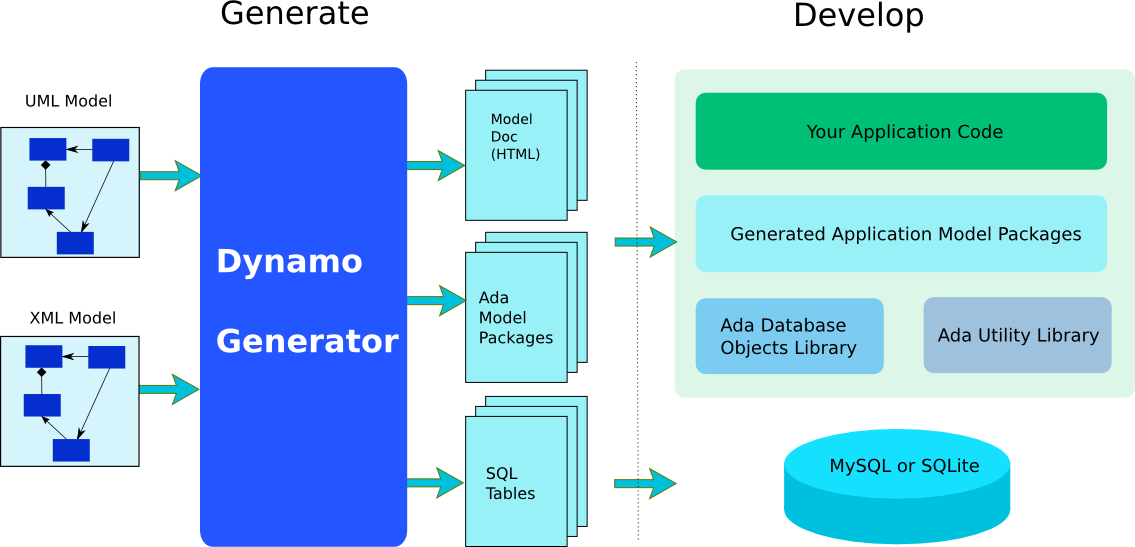
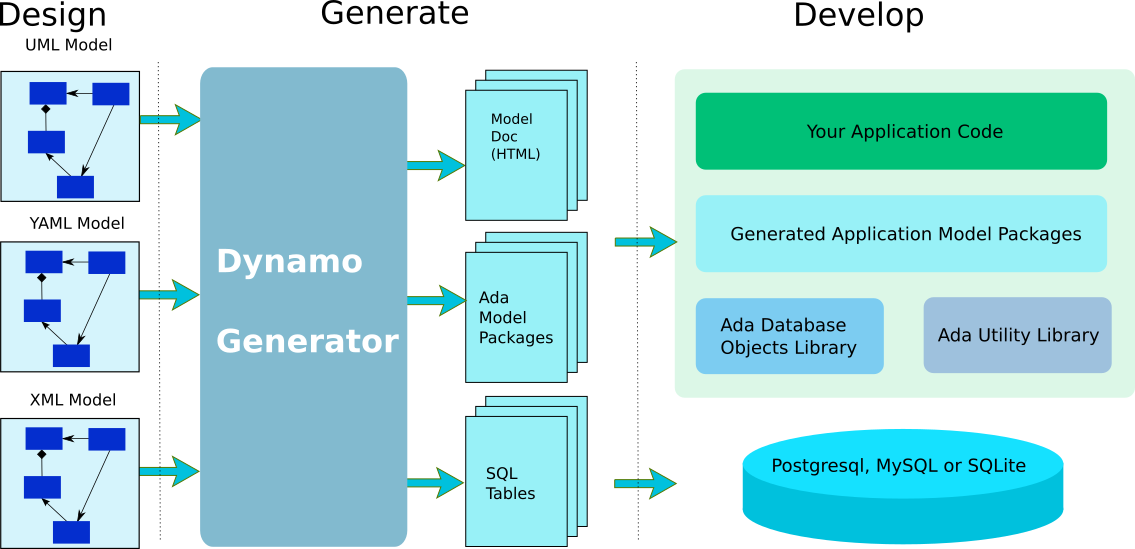
Update and clarify the installation, tutorial, fix the image, update the publication date

diff --git a/docs/Installation.md b/docs/Installation.md
@@ -7,10 +7,10 @@ This chapter explains how to build and install the library.
 Before building ADO, you will need:
 
 * [Ada Utility Library](https://github.com/stcarrez/ada-util)
-* [XML/Ada](http://libre.adacore.com/libre/tools/xmlada/)
+* [XML/Ada](https://libre.adacore.com/libre/tools/xmlada/)
 * Either the PostgreSQL, MySQL or SQLite development headers installed.
 
-First get, build and install the [XML/Ada](http://libre.adacore.com/libre/tools/xmlada/)
+First get, build and install the [XML/Ada](https://libre.adacore.com/libre/tools/xmlada/)
 and then get, build and install the [Ada Utility Library](https://github.com/stcarrez/ada-util).
 
 ## Database Driver Installation
@@ -42,18 +42,43 @@ sudo apt-get install postgresql-client libpq-dev
 ```
 
 ### Windows
-For Windows, the installation is a little bit more complex and manual.
-You may either download the files from MySQL and SQLite download sites
-or you may use the files provided by ADO in the `win32` directory.
 
-If your GNAT 2018 compiler is installed in `C:/GNAT/2018`, you may
-install the MySQL and SQLite libraries by using msys cp with:
+It is recommended to use msys2 available at https://www.msys2.org/
+and use the `pacman` command to install the required packages.
 
 ```
-cp win32/*.dll C:/GNAT/2018/bin
-cp win32/*.dll C:/GNAT/2018/lib
-cp win32/*.lib C:/GNAT/2018/lib
-cp win32/*.a C:/GNAT/2018/lib
+pacman -S git
+pacman -S make
+pacman -S unzip
+pacman -S base-devel --needed
+pacman -S mingw-w64-x86_64-sqlite3
+```
+
+For Windows, the installation is a little bit more complex and manual.
+You may either download the files from MySQL and SQLite download sites
+or you may use the files provided by Ada Database Objects
+in the `win32` directory.
+
+For Windows 32-bit, extract the files:
+
+```
+cd win32 && unzip sqlite-dll-win32-x86-3290000.zip
+```
+
+For Windows 64-bit, extract the files:
+
+```
+cd win32 && unzip sqlite-dll-win64-x64-3290000.zip
+```
+
+If your GNAT 2019 compiler is installed in `C:/GNAT/2019`, you may
+install the liblzma, MySQL and SQLite libraries by using msys cp with:
+
+```
+cp win32/*.dll C:/GNAT/2019/bin
+cp win32/*.dll C:/GNAT/2019/lib
+cp win32/*.lib C:/GNAT/2019/lib
+cp win32/*.a C:/GNAT/2019/lib
 ```
 
 ## Configuration
@@ -125,4 +150,18 @@ GNAT project file:
 
 ```
 with "ado";
+with "ado_all";
 ```
+
+It is possible to use only a specific database driver, in that case your GNAT
+project file could be defined as follows:
+
+```
+with "ado";
+with "ado_mysql";
+with "ado_sqlite";
+with "ado_postgresql";
+```
+
+where the `ado_mysql`, `ado_sqlite` and `ado_postgresql` are optional and
+included according to your needs.

diff --git a/docs/Tutorial.md b/docs/Tutorial.md
@@ -17,13 +17,13 @@ The tutorial application is a simple user management database which has only one
 
 The first step is to design the data model.  You have the choice with:
 
-   * Using an UML modeling tool,
-   * Writing an XML file following the [Hibernate](http://www.hibernate.org/) description,
+   * Using an UML modeling tool such as [ArgoUML](https://github.com/argouml-tigris-org/argouml),
+   * Writing an XML file following the [Hibernate](https://www.hibernate.org/) description,
    * Writing a YAML description according to the [Doctrine](https://www.doctrine-project.org/projects/doctrine-orm/en/2.6/reference/yaml-mapping.html) mapping.
 
 In all cases, the model describes the data table as well as how the different
 columns are mapped to an Ada type.  The model can also describe the relations between
-tables.
+tables.  XML and YAML data model files should be stored in the `db` directory.
 
 Let's define a mapping for a simple `user` table and save it in `db/user.hbm.xml`:
 ```
@@ -155,6 +155,12 @@ in each directory:
 * A second SQL file that contains `DROP` statements to erase the database tables.
   The file name uses the pattern `drop-`*name*-*driver*.
 
+When you modify the UML, XML or YAML model files, you should generate again
+the Ada and SQL files.  Even though these files can be generated, it is
+recommended to store these generated files in a versioning systems such
+as `git` because this helps significantly in tracking changes in the data model.
+
+
 ## Getting a Database Connection
 
 To access the database, we will need a database connection.
@@ -172,7 +178,7 @@ with ADO.Sessions.Factory;
 
 The factory can be initialized by giving a URI string that identifies the
 driver and the information to connect to the database.  Once created,
-the factory return session objects to connect to that database.  To connect
+the factory returns a session object to connect to that database.  To connect
 to another database, another factory is necessary.
 
 To get access to a MySQL database, the factory could be initialized as follows:

diff --git a/docs/ADO_Model.md b/docs/ADO_Model.md
@@ -228,7 +228,7 @@ management is handled automatically.  It defines generic operations to be able t
   * save the Ada object into the database either by inserting or updating it,
   * delete the database record.
 
-The [Dynamo](https://github.com/stcarrez/dynamo) code generator will generate a specific tagged type for each database table
+The Dynamo code generator will generate a specific tagged type for each database table
 that is mapped.  These tagged type will inherit from the `Object_Ref` and will implement
 the required abstract operations.  For each of them, the code generator will generate
 the `Get_X` and `Set_X` operation for each column mapped in Ada.
@@ -238,7 +238,7 @@ The `ADO.Objects.Object_Record` tagged record is used for that and it defines th
 root type for the model representation.  The type provides operations to modify a
 data field of the record while tracking its changes so that when the `Save` operation
 is called, only the data fields that have been modified are updated in the database.
-An application will not use nor access the `Object_Record`.  The [Dynamo](https://github.com/stcarrez/dynamo) code generator
+An application will not use nor access the `Object_Record`.  The Dynamo code generator
 generates a private type to make sure it is only accessed through the reference.
 
 Several predicate operations are available to help applications check the validity
@@ -287,7 +287,7 @@ not User.Is_Null and not User.Is_Loaded and User.Is_Inserted
 ```
 
 ## Loading Objects
-Three operations are generated by the [Dynamo](https://github.com/stcarrez/dynamo) code generator to help in loading
+Three operations are generated by the Dynamo code generator to help in loading
 a object from the database: two `Load` procedures and a `Find` procedure.
 The `Load` procedures are able to load an object by using its primary key.
 Two forms of `Load` are provided: one that raises the `ADO.Objects.NOT_FOUND`

diff --git a/docs/ADO_Objects.md b/docs/ADO_Objects.md
@@ -9,7 +9,7 @@ management is handled automatically.  It defines generic operations to be able t
   * save the Ada object into the database either by inserting or updating it,
   * delete the database record.
 
-The [Dynamo](https://github.com/stcarrez/dynamo) code generator will generate a specific tagged type for each database table
+The Dynamo code generator will generate a specific tagged type for each database table
 that is mapped.  These tagged type will inherit from the `Object_Ref` and will implement
 the required abstract operations.  For each of them, the code generator will generate
 the `Get_X` and `Set_X` operation for each column mapped in Ada.
@@ -19,7 +19,7 @@ The `ADO.Objects.Object_Record` tagged record is used for that and it defines th
 root type for the model representation.  The type provides operations to modify a
 data field of the record while tracking its changes so that when the `Save` operation
 is called, only the data fields that have been modified are updated in the database.
-An application will not use nor access the `Object_Record`.  The [Dynamo](https://github.com/stcarrez/dynamo) code generator
+An application will not use nor access the `Object_Record`.  The Dynamo code generator
 generates a private type to make sure it is only accessed through the reference.
 
 Several predicate operations are available to help applications check the validity
@@ -68,7 +68,7 @@ not User.Is_Null and not User.Is_Loaded and User.Is_Inserted
 ```
 
 ## Loading Objects
-Three operations are generated by the [Dynamo](https://github.com/stcarrez/dynamo) code generator to help in loading
+Three operations are generated by the Dynamo code generator to help in loading
 a object from the database: two `Load` procedures and a `Find` procedure.
 The `Load` procedures are able to load an object by using its primary key.
 Two forms of `Load` are provided: one that raises the `ADO.Objects.NOT_FOUND`

diff --git a/docs/ADO_Statements.md b/docs/ADO_Statements.md
@@ -166,7 +166,7 @@ the result mapped in the record.
 The same query mapping can be used by different queries.
 
 After writing or updating a query mapping, it is necessary to launch the
-[Dynamo](https://github.com/stcarrez/dynamo) code generator to generate the corresponding Ada model.
+Dynamo code generator to generate the corresponding Ada model.
 
 ### SQL Queries
 The XML query file defines a list of SQL queries that the application
@@ -203,10 +203,10 @@ The `sql` and `sql-count` XML element can have an optional `driver` attribute.
 When defined, the attribute indicates the database driver name that is specific
 to the query.  When empty or not defined, the SQL is not specific to a database driver.
 
-For each query, the [Dynamo](https://github.com/stcarrez/dynamo) code generator generates a query definition instance which
+For each query, the Dynamo code generator generates a query definition instance which
 can be used in the Ada code to be able to use the query.  Such instance is static and
 readonly and serves as a reference when using the query.  For the above query,
-the [Dynamo](https://github.com/stcarrez/dynamo) code generator generates:
+the Dynamo code generator generates:
 
 ```Ada
 package Samples.User.Model is
@@ -216,7 +216,7 @@ private
 end Samples.User.Model;
 ```
 
-When a new query is added, the [Dynamo](https://github.com/stcarrez/dynamo) code generator must be launched to update
+When a new query is added, the Dynamo code generator must be launched to update
 the generated Ada code.
 
 ### Using Named Queries

diff --git a/docs/index.md b/docs/index.md
@@ -5,14 +5,15 @@ It allows to map database objects into Ada records and access database content e
 The library supports PostgreSQL, MySQL, SQLite as databases.
 Most of the concepts developed for ADO come from the Java Hibernate ORM.
 
-The ORM uses an XML mapping file or an UML model, a code generator and a runtime library for
-the implementation.  It provides a database driver for [PostgreSQL](https://www.postgresql.org/),
-[MySQL](http://www.mysql.com/)
-and [SQLite](http://www.sqlite.org/).  The ORM helps your application by providing a mapping
+The ORM uses either an XML mapping file, a YAML file or an UML model,
+a code generator and a runtime library for the implementation.
+It provides a database driver for [PostgreSQL](https://www.postgresql.org/),
+[MySQL](https://www.mysql.com/)
+and [SQLite](https://www.sqlite.org/).  The ORM helps your application by providing a mapping
 of your database
 tables directly in the target programming language: Ada05 in our case.  The development process is the following:
 
-  * You design your database model either using a UML tool or by writing an XML description,
+  * You design your database model either using a UML tool or by writing an XML or YAML description file,
   * You generate the Ada05 mapping files by using the [Dynamo](https://github.com/stcarrez/dynamo) code generator,
   * You generate the SQL database tables by using the same tool,
   * You write your application on top of the generated code that gives you direct and simplified access to your database.

diff --git a/docs/title.md b/docs/title.md
@@ -1,7 +1,7 @@
 ---
 title: "Ada Database Objects Programmer's Guide"
 author: [Stephane Carrez]
-date: 2019-01-10
+date: 2019-08-31
 subject: "Ada Database Objects"
 tags: [Ada, ORM, Database, MySQL, PostgreSQL, SQLite]
 titlepage: true
